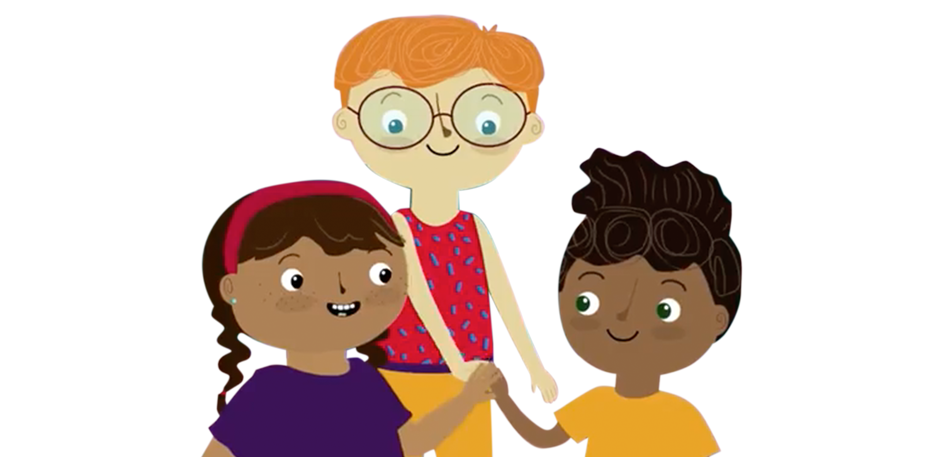
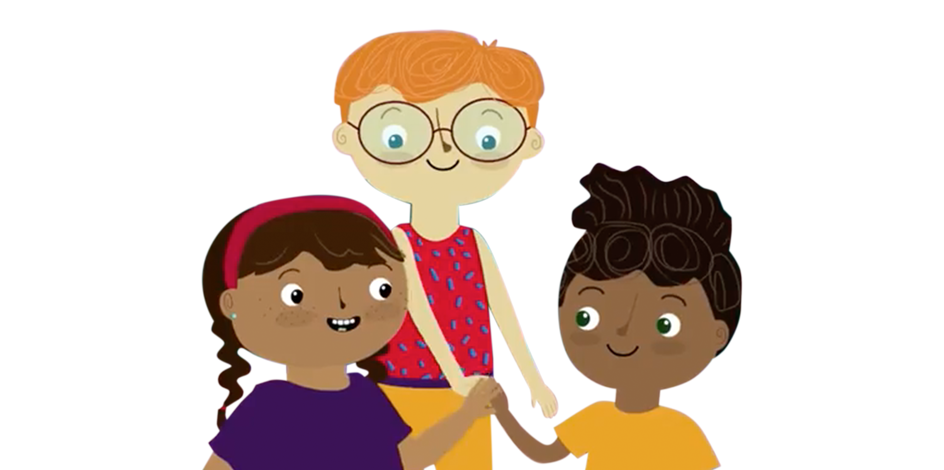
juanas page second commit

Changed region(s): [[0.215, 0.0298, 0.7987, 1.0]]

diff --git a/6-9_personajes-juana.html b/6-9_personajes-juana.html
@@ -37,23 +37,24 @@
         </div>
     </nav>
     <header class="personajes-juana__header">
-        <div class="personajes-juana__header__text-zone">
+        <div class="personajes-juana__header__container">
+            <img src="img/personajes-juana_banner_background.png" class="personajes-juana__header__background" alt="">
             <img src="img/personajes-juana_banner_layer.png" class="personajes-juana__header__text-zone__img" alt="">
             <div class="personajes-juana__header__text">
                 <h1>JUANA, LU Y MATI</h1>
-                <p>¡ES SUPER ALEGRA Y DIVERTIDA! LE ENCANTA ESTAR CON SUS AMIGOS LU Y MATI.</p>
-            </div>            
-        </div>
-        <div class="personajes-juana__header__characters-img">
-            <img src="img/personajes-juana_banner_characters.png" class="personajes-juana__header__characters" alt="Personajes">
-        </div>
+                <p>SON AMIGXS Y COMPARTEN UN MONTÓN DE SITUACIONES DIVERTIDAS, ¿QUERÉS CONOCERLOS? ACÁ TE LOS PRESENTAMOS.</p>
+            </div>
+            <div class="personajes-juana__header__characters-img">
+                <img src="img/personajes-juana_banner_characters.png" class="personajes-juana__header__characters" alt="Personajes">
+            </div>
+        </div>        
     </header>
     <div class="personajes-juana__background">
         <section class="personajes-juana__presentation">
             <div class="personajes-juana__images__row">
                 <img src="img/personajes-juana_laugh.gif" alt="" class="personajes-juana__img__40">
                 <img src="img/personajes-juana_draw.png" alt="" class="personajes-juana__img__60">
-                <p class="personajes-juana__presentation__text">¡ES SUPER ALEGRA Y DIVERTIDA! LE ENCANTA ESTAR CON SUS AMIGOS LU Y MATI.<br>
+                <p class="personajes-juana__presentation__text">¡ES SUPER ALEGRE Y DIVERTIDA! LE ENCANTA ESTAR CON SUS AMIGOS LU Y MATI.<br>
                     LE GUSTA MUCHO LA MÚSICA.</p>
                 <img src="img/personajes-juana_portrait.png" alt="" class="personajes-juana__img__40">
                 <img src="img/personajes-juana_dance.gif" alt="" class="personajes-juana__img__60">

diff --git a/css/styles.css b/css/styles.css
@@ -206,38 +206,48 @@ footer {
 }
 
 .personajes-juana__header {
-    background-image: url("../img/personajes-juana_banner_background.png");
-    background-repeat: repeat-x;
-    display: flex;
-    flex-direction: row;
-    align-items: center;
+    background-color: blueviolet;
 }
 
-.personajes-juana__header__text-zone {
+.personajes-juana__header__container {
     position: relative;
+    width: 100%;
+}
+
+.personajes-juana__header__background {
+    width: 100%;
 }
 
 .personajes-juana__header__text-zone__img {
-    width: 100%;
+    position: absolute;
+    left: 0rem; 
+    top: 0rem;
+    height: 100%;
 }
 
 .personajes-juana__header__text {
     position: absolute;
-    width: 75%;
+    width: 25%;
     left: 3rem; 
-    top: 2rem;
+    top: 3rem;
     font-family: 'Nerko One', cursive;
-    font-size: 2rem;
     color: #ffffff;
 }
 
-.personajes-juana__header__characters {
-    width: 90%;
+.personajes-juana__header__text h1 {
+    font-size: 3rem;
 }
 
-.personajes-juana__header__characters-img {
-    display: flex;
-    flex-direction: row;
+.personajes-juana__header__text p {
+    font-size: 2rem;
+    padding: 1rem 0;
+}
+
+.personajes-juana__header__characters {
+    height: 100%;
+    position: absolute;
+    left: 30rem; 
+    top: 0rem;
 }
 
 .personajes-juana__background {
@@ -258,13 +268,13 @@ footer {
 }
 
 .personajes-juana__img__40 {
-    padding: 2rem 0.5rem;
-    width: 38%;
+    padding: 2rem 1.5rem;
+    width: 35%;
 }
 
 .personajes-juana__img__60 {
-    padding: 2rem o.5rem;
-    width: 58%;
+    padding: 2rem 1.5rem;
+    width: 50%;
 }
 
 .personajes-juana__presentation__text {
